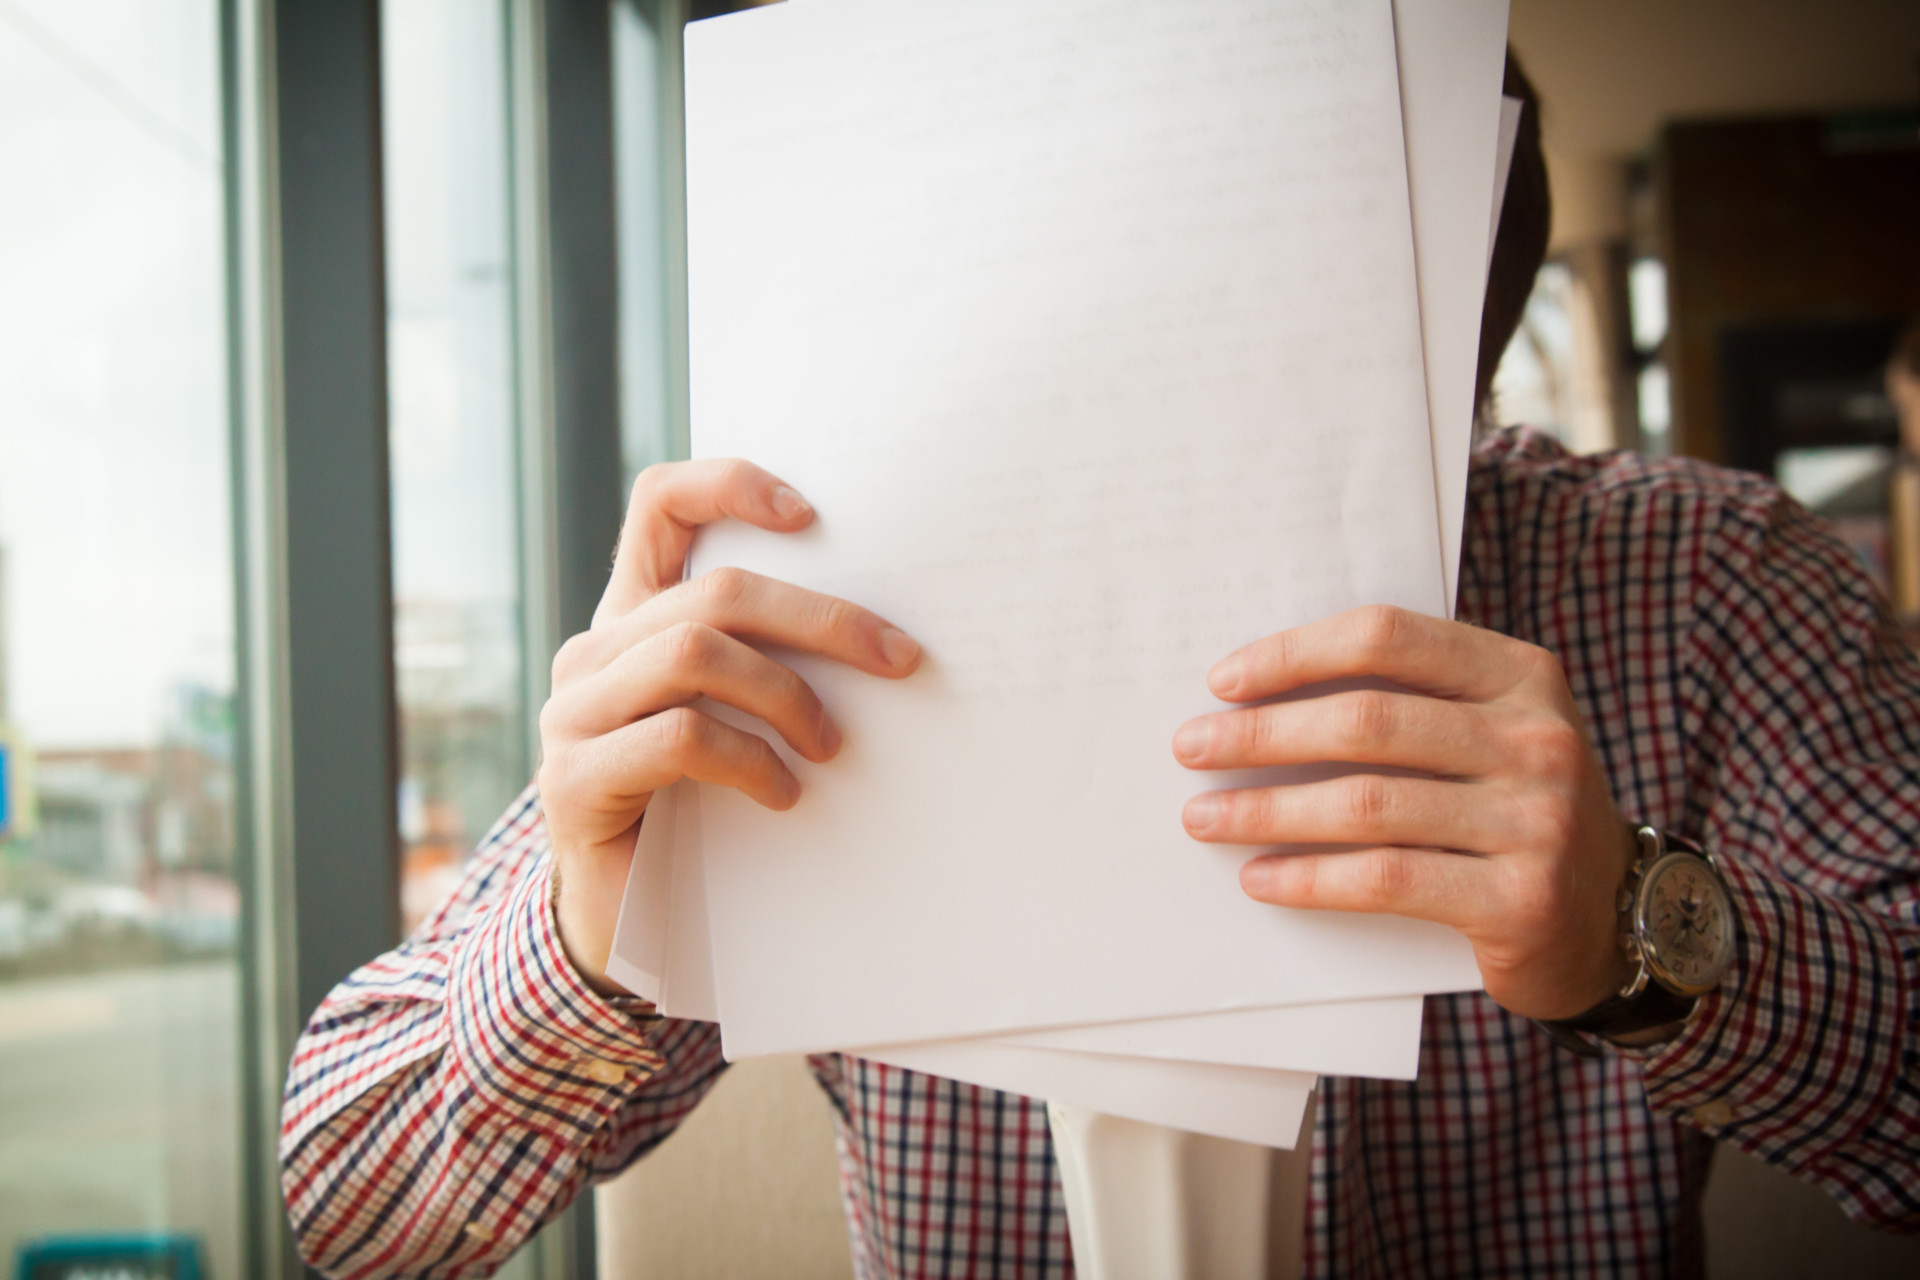
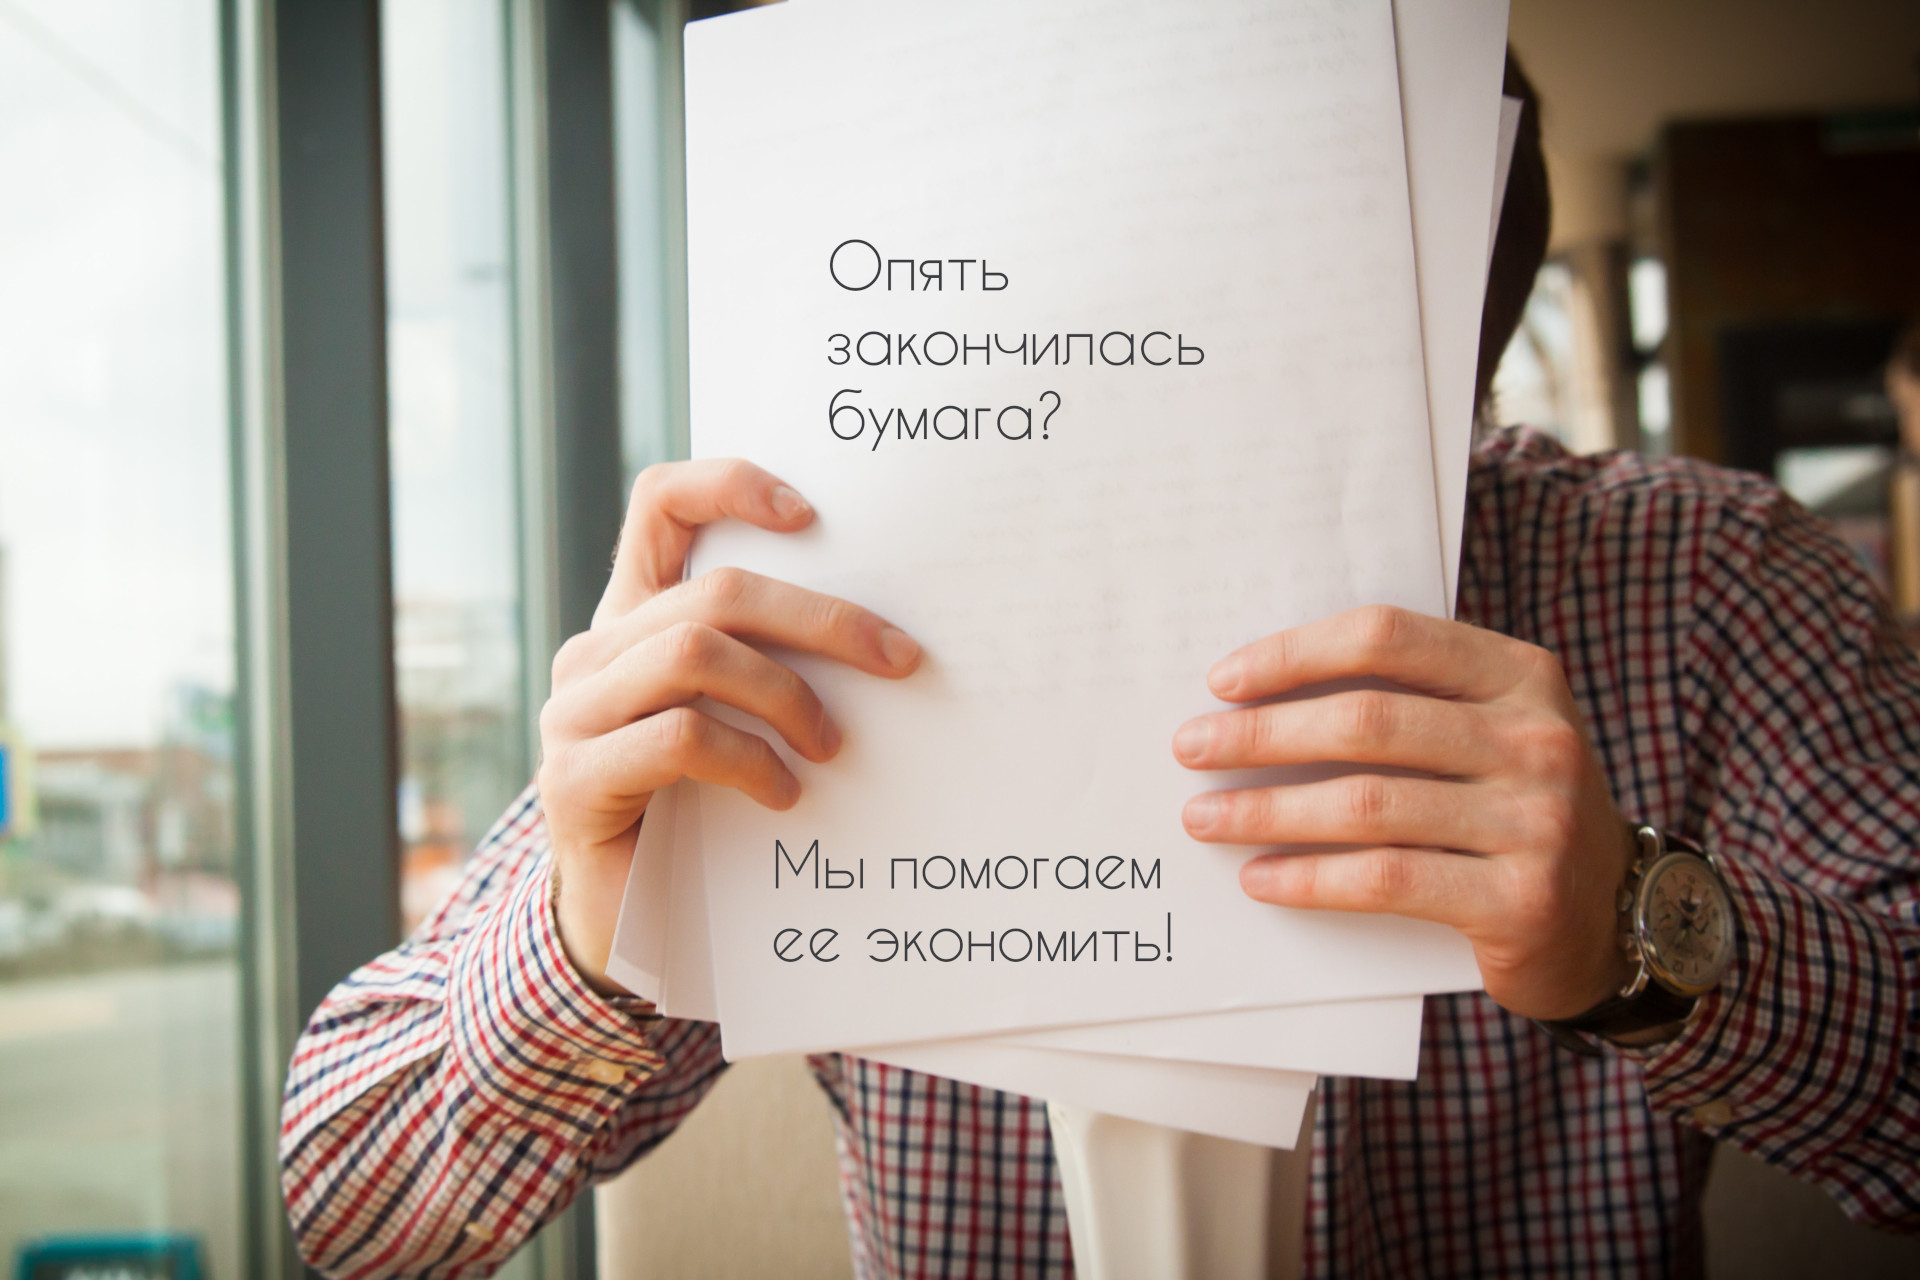
Лэндинг. Текст на изображениях

diff --git a/resources/views/auth/login.blade.php b/resources/views/auth/login.blade.php
@@ -80,9 +80,6 @@ background-position: center;
 background-repeat: no-repeat;
 background-size: cover;
 margin-top: -60px;">
-<div class="container pt-5">
-
-</div>
 </section>
 
 <section id="first" style="
@@ -91,110 +88,30 @@ background-image: url('{{asset('assets/images/background(FHD).jpg')}}');
 background-position: center;
 background-repeat: no-repeat;
 background-size: cover;">
-<div class="container pt-5">
-<div class="row d-flex justify-content-center">
-    <div class="col-1 me-5">
-    <h1 style="font-size: 4em;">Опять</h1>
-    </div>
-</div>
-<div class="row d-flex justify-content-center">
-    <div class="col-1 ms-3">
-    <h1 style="font-size: 4em;">нужна</h1>
-    </div>
-</div>
-<div class="row d-flex justify-content-center">
-    <div class="col-1 ms-5">
-    <h1 style="font-size: 4em;">бумага?!</h1>
-    </div>
-</div>
-<div class="row d-flex justify-content-center">
-    <div class="col-2 mt-5 ms-5">
-    <a href="#second" class="btn btn-outline-success btn-lg">Выход есть</a>
-    </div>
-</div>
-</div>
 </section>
 
-<section id="second" style="
-height: 100vh; 
-background-image: url('{{asset('assets/images/second_section_background(FHD).jpg')}}');
-background-position: center;
-background-repeat: no-repeat;
-background-size: cover;">
-<div class="container">
-  <div class="row pt-2">
-    <div class="col  d-flex justify-content-center">
-      <image src="{{asset('assets/images/document_flow.jpg')}}" style="width: 40vw;" class="my-auto"></image>
-    </div>
-  </div>
-  <div class="row mt-2">
-    <div class="col d-flex justify-content-center">
-      <a href="#third" class="btn btn-warning btn-lg">Зачем все это?</a>
-    </div>
-  </div>
-</div>
-</section>
-
-<section id="third"  
-style="
+<section id="first" style="
 height: 100vh; 
 background-image: url('{{asset('assets/images/third_section_background(FHD).jpg')}}');
 background-position: center;
 background-repeat: no-repeat;
 background-size: cover;">
-<div class="container">
-  <div class="row">
-    <div class="col mt-5  d-flex justify-content-center">
-      <h1 style="color: white;">Не выполнена задача?</h1>
-    </div>
-  </div>
-</div>
 </section>
 
-<section id="fourth"style="
-height: 100vh;">
-<div class="container">
-  <div class="row row-cols-1 row-cols-md-3 pt-5 d-flex justify-content-around">
-    <div class="col-6 col-sm-3 col-md-3 card text-center shadow-lg">
-      <img style="height: 15vh;" src="{{asset('assets/images/keeping.svg')}}" class="card-img-top rounded mx-auto" alt="Keeping image">
-      <div class="card-body">
-        <p class="card-text">Хранение документов и файлов</p>
-      </div>
-    </div>
-    <div class="col-6  col-sm-3 col-md-3 card text-center shadow-lg">
-      <img style="height: 15vh;" src="{{asset('assets/images/searching.svg')}}" class="card-img-top rounded mx-auto" alt="Searching image">
-      <div class="card-body">
-        <p class="card-text">Полнотекстовый поиск</p>
-      </div>
-    </div>
-    <div class="col-6  col-sm-3 col-md-3 card text-center shadow-lg">
-      <img style="height: 15vh;" src="{{asset('assets/images/control.svg')}}" class="card-img-top rounded mx-auto" alt="Control image">
-      <div class="card-body">
-        <p class="card-text">Учет и контроль исполнения задач</p>
-      </div>
-    </div>
-  </div>
-  <div class="row row-cols-1 row-cols-md-3 pt-5">
-    <div class="col card text-center shadow-lg">
-      <img style="height: 15vh;" src="{{asset('assets/images/keeping.svg')}}" class="card-img-top rounded mx-auto" alt="Keeping image">
-      <div class="card-body">
-        <p class="card-text">Хранение документов и файлов</p>
-      </div>
-    </div>
-    <div class="col card text-center shadow-lg">
-      <img style="height: 15vh;" src="{{asset('assets/images/searching.svg')}}" class="card-img-top rounded mx-auto" alt="Searching image">
-      <div class="card-body">
-        <p class="card-text">Полнотекстовый поиск</p>
-      </div>
-    </div>
-    <div class="col card text-center shadow-lg">
-      <img style="height: 15vh;" src="{{asset('assets/images/control.svg')}}" class="card-img-top rounded mx-auto" alt="Control image">
-      <div class="card-body">
-        <p class="card-text">Учет и контроль исполнения задач</p>
-      </div>
-    </div>
-  </div>
-</div>
+<section id="first" style="
+height: 100vh; 
+background-image: url('{{asset('assets/images/fourth_section_background(FHD).jpg')}}');
+background-position: center;
+background-repeat: no-repeat;
+background-size: cover;">
+</section>
+
+<section id="first" style="
+height: 100vh; 
+background-image: url('{{asset('assets/images/abilities(FHD).jpg')}}');
+background-position: center;
+background-repeat: no-repeat;
+background-size: cover;">
 </section>
 
 <script>
